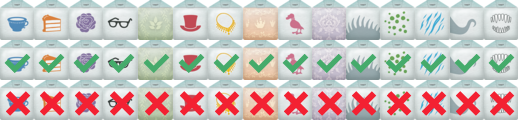
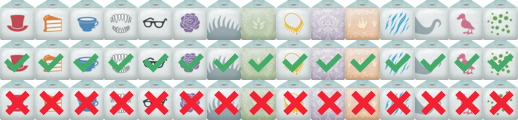
update blue traits correct order

diff --git a/dinosaurteaparty.css b/dinosaurteaparty.css
@@ -185,17 +185,48 @@
 }
 
 .trait1 {
-    background-image: url("img/DTPtrait-blue_drink.jpg");      
-    top: 400px;
+    background: url("img/DTP_Trait_Blue.png") 0 0;     
+    width: 34px;
 }
 
-.trait1_inactive {
+.trait1_incorrect {
+    background: url("img/DTP_Trait_Blue.png") 0 -80px;     
+    width: 34px;
+}
 
-    top: 400px;
+.trait1_correct {
+    background: url("img/DTP_Trait_Blue.png") 0 -40px;     
+    width: 34px;
 }
 
 .trait2 {
-    background: url("img/DTP_Trait_Blue.png") 0 0;     
+    background: url("img/DTP_Trait_Blue.png") 34px 0;     
+    width: 35px;
+}
+
+.trait2_incorrect {
+    background: url("img/DTP_Trait_Blue.png") 34px -80px;     
+    width: 35px;
+}
+
+.trait2_correct {
+    background: url("img/DTP_Trait_Blue.png") 34px -40px;     
+    width: 35px;
+}
+
+.trait3 {
+    background: url("img/DTP_Trait_Blue.png") 69px 0;     
+    width: 34px;
+}
+
+.trait3_incorrect {
+    background: url("img/DTP_Trait_Blue.png") 69px -80px;     
+    width: 34px;
+}
+
+.trait3_correct {
+    background: url("img/DTP_Trait_Blue.png") 69px -40px;     
+    width: 34px;
 }
 
 .guess_dinosaur {
